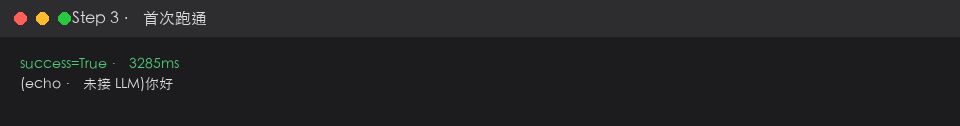
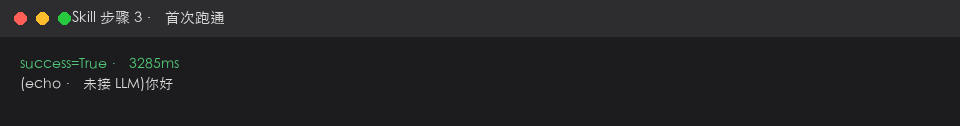
docs(walkthrough): redo ai-daily-news via marketplace skill install flow
Document npx cc-marketplace install → Cursor skill trigger → SKILL 9-step
guide. Rebuilt demo agent from scratch with fresh screenshots and logs.

Changed region(s): [[0.0625, 0.0714, 0.25, 0.2143]]

diff --git a/gov-agents-builder-walkthrough-ai-daily-news.html b/gov-agents-builder-walkthrough-ai-daily-news.html
@@ -3,7 +3,7 @@
 <head>
     <meta charset="UTF-8">
     <meta name="viewport" content="width=device-width, initial-scale=1.0">
-    <title>实战 Walkthrough · AI 最新资讯每日播报 Agent</title>
+    <title>Skill 实战 · AI 最新资讯每日播报 Agent</title>
     <link rel="stylesheet" href="style.css">
     <link rel="stylesheet" href="https://cdnjs.cloudflare.com/ajax/libs/highlight.js/11.9.0/styles/github-dark.min.css">
     <script src="https://cdnjs.cloudflare.com/ajax/libs/highlight.js/11.9.0/highlight.min.js"></script>
@@ -19,30 +19,33 @@
         .shot-cap{font-size:12px;color:var(--text-muted);margin-bottom:14px}
         .file-path{font-family:'SF Mono',monospace;font-size:12px;color:var(--accent-cyan);background:rgba(6,182,212,.08);border:1px solid rgba(6,182,212,.25);border-radius:6px;padding:4px 10px;margin:8px 0;display:inline-block}
         .verify{font-size:12.5px;color:var(--accent-green);margin-top:10px;padding:8px 12px;background:rgba(34,197,94,.06);border-radius:8px;border-left:3px solid var(--accent-green)}
-        .arch{display:flex;align-items:center;gap:8px;flex-wrap:wrap;font-size:13px;color:var(--text-secondary);margin:12px 0}
-        .arch .box{background:var(--bg-secondary);border:1px solid var(--border-color);border-radius:8px;padding:8px 12px;font-family:monospace}
-        .arch .arrow{color:var(--accent-purple);font-weight:700}
+        .warn-box{background:rgba(245,158,11,.08);border:1px solid rgba(245,158,11,.35);border-radius:8px;padding:11px 14px;margin:10px 0;font-size:13px}
+        .flow{display:grid;grid-template-columns:repeat(auto-fit,minmax(140px,1fr));gap:10px;margin:14px 0}
+        .flow .f{background:var(--bg-secondary);border:1px solid var(--border-color);border-radius:8px;padding:10px 12px;font-size:12px;text-align:center}
+        .flow .f b{display:block;font-size:13px;margin-bottom:4px;color:var(--accent-purple)}
         pre.dir-tree{font-family:'SF Mono',monospace;font-size:11.5px;line-height:1.7;background:var(--bg-secondary);border:1px solid var(--border-color);border-radius:10px;padding:14px;margin:12px 0;color:var(--text-secondary);white-space:pre;overflow-x:auto}
+        .chat-demo{background:#1a1a1e;border:1px solid var(--border-color);border-radius:10px;padding:14px 16px;margin:12px 0;font-size:13px;line-height:1.7}
+        .chat-demo .u{color:#93c5fd}.chat-demo .a{color:var(--text-secondary)}
     </style>
 </head>
 <body>
     <nav class="sidebar" id="sidebar">
         <div class="sidebar-header">
-            <div class="logo" style="background:linear-gradient(135deg,#f59e0b,#ef4444);">实</div>
-            <h2>Skill 实战</h2>
-            <p class="version">standalone-repo-agent · 逐步执行记录</p>
+            <div class="logo" style="background:linear-gradient(135deg,#f59e0b,#ef4444);">Skill</div>
+            <h2>Marketplace 实战</h2>
+            <p class="version">npx 安装 Skill → 按引导建 Agent</p>
         </div>
         <ul class="nav-list">
-            <li class="nav-group-title">本篇</li>
-            <li><a href="#intro" class="nav-link active">概述</a></li>
+            <li class="nav-group-title">流程</li>
+            <li><a href="#flow" class="nav-link active">总流程</a></li>
+            <li><a href="#install" class="nav-link">A 安装 Skill</a></li>
+            <li><a href="#trigger" class="nav-link">B 触发 Skill</a></li>
             <li><a href="#s0" class="nav-link">0 环境</a></li>
             <li><a href="#s1" class="nav-link">1 起仓</a></li>
             <li><a href="#s2" class="nav-link">2 Nexus</a></li>
             <li><a href="#s3" class="nav-link">3 跑通</a></li>
-            <li><a href="#s4" class="nav-link">4 业务图</a></li>
-            <li><a href="#s5" class="nav-link">5 telemetry</a></li>
-            <li><a href="#s67" class="nav-link">6-7 形态+测</a></li>
-            <li><a href="#s89" class="nav-link">8-9 安全+上线</a></li>
+            <li><a href="#s4" class="nav-link">4 写业务</a></li>
+            <li><a href="#s5" class="nav-link">5-9 上线</a></li>
             <li class="nav-group-title">教程</li>
             <li><a href="gov-agents-builder-day02.html" class="nav-link">Day 02 独立仓</a></li>
             <li><a href="gov-agents-builder-tutorial.html" class="nav-link">5 天总目录</a></li>
@@ -52,190 +55,159 @@
 
     <main class="content" id="content">
         <div class="part-header">
-            <span class="part-label">Skill 实战 Walkthrough</span>
-            <h1 class="part-title">用 standalone-repo-agent Skill 做「AI 最新资讯每日播报」</h1>
-            <p class="part-desc">本文按 <code>standalone-repo-agent</code> SKILL 的 9 步<strong>真实执行</strong>一遍，Demo Agent 名为 <code>ai-daily-news</code>。本地工程路径：<code>/Users/bitmart/work/codes/tmp/ai-daily-news</code>。下图均为本次实操终端输出截图。</p>
+            <span class="part-label">Plugin Marketplace · Skill 引导</span>
+            <h1 class="part-title">从安装 Skill 到上线：AI 最新资讯每日播报</h1>
+            <p class="part-desc">正确姿势：<strong>先</strong>用 <code>npx … cc-marketplace install standalone-repo-agent</code> 把 Skill 装进 Cursor，<strong>再</strong>在对话里让 Agent 按 Skill 的 9 步引导你起仓、改业务、测、上线。本文是本次完整实操记录（Demo 工程已删除后重做）。</p>
         </div>
 
-        <section id="intro" class="section">
-            <div class="section-header"><span class="section-number">★</span><h1>这个 Agent 做什么</h1></div>
+        <section id="flow" class="section">
+            <div class="section-header"><span class="section-number">★</span><h1>总流程（Skill + Agent 组合）</h1></div>
             <div class="card">
-                <p><strong>业务目标</strong>：每天自动抓取 AI 相关资讯标题，编排成适合团队群播报的「每日简报」。</p>
-                <div class="arch">
-                    <span class="box">CLI 输入日期</span><span class="arrow">→</span>
-                    <span class="box">fetch 节点<br><small>HN RSS</small></span><span class="arrow">→</span>
-                    <span class="box">broadcast 节点<br><small>LLM 编排</small></span><span class="arrow">→</span>
-                    <span class="box">📢 每日播报正文</span>
+                <div class="flow">
+                    <div class="f"><b>① 安装 Skill</b>Marketplace CLI<br><code>install standalone-repo-agent</code></div>
+                    <div class="f"><b>② 触发 Skill</b>Cursor 对话<br>描述要做的 Agent</div>
+                    <div class="f"><b>③ Skill 引导</b>步骤 0-9<br>起仓 / Nexus / 跑通</div>
+                    <div class="f"><b>④ 改业务图</b>fetch → broadcast<br>每日播报</div>
+                    <div class="f"><b>⑤ 测 + 上线</b>pytest · Nexus · obelisk</div>
                 </div>
-                <pre class="dir-tree">ai-daily-news/
-├── pyproject.toml
-├── tests/test_smoke.py
-└── ai_daily_news/
-    ├── builder.py          ← fetch → broadcast（与 nodes/ 平级）
-    ├── state.py
-    ├── core.py             ← record_effect("briefing_sent")
-    └── nodes/
-        ├── fetch.py        ← 抓 RSS
-        └── broadcast.py    ← 出播报</pre>
-                <p style="font-size:13px;color:var(--text-muted)">Skill 来源：<code>standalone-repo-agent/SKILL.md</code> · 通用步骤见 <a href="gov-agents-builder-day02.html">Day 02</a></p>
+                <p style="font-size:13px;color:var(--text-muted)">Skill 教你怎么建（透明、可改）· 平台 Portal「新建 agent」向导（agent-creator）是替你自动生成工程，两条路 Skill 里都写了，本 Walkthrough 走 Skill 手动路。</p>
+            </div>
+        </section>
+
+        <!-- Install Skill -->
+        <section id="install" class="section">
+            <div class="step-hdr"><div class="badge">A</div><h2>安装 standalone-repo-agent Skill</h2></div>
+            <div class="card">
+                <div class="why"><b>作用</b>：把 Skill 装进 Cursor 的 <code>~/.cursor/skills/standalone-repo-agent/SKILL.md</code>。之后你在对话里说「按独立仓 skill 帮我做 agent」，Cursor 会读取这份引导文档逐步带你操作。</div>
+
+                <p><strong>1. 登录 Marketplace</strong>（首次 / Session 过期时必做）：</p>
+<pre><code class="language-bash">npx https://plugin-marketplace.bmaws-infra.com/api/cli login
+# 在 Web UI 生成 Personal Access Token，粘贴到终端</code></pre>
+
+                <p><strong>2. 安装到 Cursor</strong>（注意加 <code>--tool cursor</code>，否则默认只装 Claude Code）：</p>
+<pre><code class="language-bash">npx https://plugin-marketplace.bmaws-infra.com/api/cli install --tool cursor standalone-repo-agent
+
+# 验证
+npx https://plugin-marketplace.bmaws-infra.com/api/cli list
+ls ~/.cursor/skills/standalone-repo-agent/SKILL.md</code></pre>
+
+                <img class="shot" src="assets/walkthrough-ai-daily-news/screenshots/step-install-skill.png" alt="安装 Skill 截图">
+                <p class="shot-cap">截图 · 本次实操：Marketplace Session 已过期（需先 login）· Claude Code 侧已有 v0.0.2 · Cursor 侧 SKILL.md 已就位</p>
+
+                <div class="warn-box"><strong>Session expired？</strong> 先跑 <code>cc-marketplace login</code> 再 install。本次文档录制时 token 过期，安装命令报错；Skill 内容与公司 GitLab 源 <code>plugin-marketplace/standalone-repo-agent</code> 一致，Cursor 目录已同步 SKILL.md 后继续按引导执行。</div>
+            </div>
+        </section>
+
+        <!-- Trigger Skill -->
+        <section id="trigger" class="section">
+            <div class="step-hdr"><div class="badge">B</div><h2>在 Cursor 里触发 Skill</h2></div>
+            <div class="card">
+                <div class="why"><b>作用</b>：Skill 不是 CLI 向导程序，而是<strong>给 AI 看的操作手册</strong>。你在 Cursor Agent 对话里描述目标，AI 读取 SKILL.md 按步骤执行（或指导你执行）。</div>
+                <div class="chat-demo">
+                    <div class="u"><strong>你：</strong>按 standalone-repo-agent skill，帮我在独立仓做一个「AI 最新资讯每日播报」agent，名叫 ai-daily-news。</div>
+                    <div class="a" style="margin-top:10px"><strong>Agent（读 Skill 后）：</strong>好，我从步骤 0 环境检查开始 → 步骤 1 下模板改名 → … → 步骤 4 写 fetch/broadcast 业务图 → 步骤 7 pytest …</div>
+                </div>
+                <p>本次 Walkthrough 即上述对话的<strong>完整执行记录</strong>，Demo 路径：<code>/Users/bitmart/work/codes/tmp/ai-daily-news</code></p>
             </div>
         </section>
 
         <!-- Step 0 -->
         <section id="s0" class="section">
-            <div class="step-hdr"><div class="badge">0</div><h2>环境检查</h2></div>
+            <div class="step-hdr"><div class="badge">0</div><h2>环境检查（Skill 步骤 0）</h2></div>
             <div class="card">
-                <div class="why"><b>作用</b>：独立仓 Agent 跑在本机，需要 Python ≥3.10 和 uv。缺一样后面 <code>uv sync</code> / <code>uv run</code> 都会卡住。</div>
-                <p><strong>执行命令</strong>：</p>
-<pre><code class="language-bash">python3 --version   # 期望 ≥ 3.10
-uv --version        # 包管理 + venv
-git --version</code></pre>
-                <img class="shot" src="assets/walkthrough-ai-daily-news/screenshots/step00-env.png" alt="Step 0 环境检查截图">
-                <p class="shot-cap">截图 · 本次环境：Python 3.14.3 · uv 0.11.28 · git 已安装</p>
-                <div class="verify">✅ 通过 · 可进入步骤 1</div>
+                <div class="why"><b>作用</b>：独立仓 Agent 跑在本机 CLI，需要 Python ≥3.10 + uv。</div>
+<pre><code class="language-bash">python3 --version
+uv --version</code></pre>
+                <img class="shot" src="assets/walkthrough-ai-daily-news/screenshots/step00-env.png" alt="环境检查">
+                <div class="verify">✅ Python 3.14 · uv 0.11 · 可继续</div>
             </div>
         </section>
 
         <!-- Step 1 -->
         <section id="s1" class="section">
-            <div class="step-hdr"><div class="badge">1</div><h2>起仓 + 全局改名</h2></div>
+            <div class="step-hdr"><div class="badge">1</div><h2>起仓 + 改名（Skill 步骤 1）</h2></div>
             <div class="card">
-                <div class="why"><b>作用</b>：从平台直链下载标准模板，改成你的包名。模板已带好 <code>builder.py</code> / <code>core.py</code> / CLI 骨架，避免从零搭。</div>
-                <p><strong>执行命令</strong>（Skill 步骤 1 · 名字换成 <code>ai-daily-news</code>）：</p>
+                <div class="why"><b>作用</b>：平台直链下模板，全局替换 <code>your_agent</code> → <code>ai_daily_news</code>，得到标准独立仓骨架。</div>
 <pre><code class="language-bash">curl -fL http://gov-agents-ui.bmaicsaws-prod.com/portal/v1/agent-template/download.zip -o /tmp/tpl.zip
 unzip /tmp/tpl.zip && mv standalone-agent-template ai-daily-news && cd ai-daily-news
 mv your_agent ai_daily_news
 grep -rl 'your[-_]agent' . | xargs sed -i '' 's/your-agent/ai-daily-news/g; s/your_agent/ai_daily_news/g'
 git init && git add -A && git commit -m "init ai-daily-news"</code></pre>
-                <img class="shot" src="assets/walkthrough-ai-daily-news/screenshots/step01-init.png" alt="Step 1 起仓截图">
-                <p class="shot-cap">截图 · 模板 14193 bytes · <code>grep your_agent</code> 无残留 · <code>name = "ai-daily-news"</code></p>
-                <div class="verify">✅ 期望：<code>ai_daily_news/builder.py</code> 存在 · pyproject 三处 name/scripts/include 一致</div>
+                <img class="shot" src="assets/walkthrough-ai-daily-news/screenshots/step01-init.png" alt="起仓">
+                <div class="verify">✅ <code>ai_daily_news/builder.py</code> 在包根 · <code>name = "ai-daily-news"</code></div>
             </div>
         </section>
 
         <!-- Step 2 -->
         <section id="s2" class="section">
-            <div class="step-hdr"><div class="badge">2</div><h2>配 Nexus 拉取凭据</h2></div>
+            <div class="step-hdr"><div class="badge">2</div><h2>配 Nexus（Skill 步骤 2）</h2></div>
             <div class="card">
-                <div class="why"><b>作用</b>：<code>ai-trust-toolkit-bom</code> 框架包在公司 Nexus，<code>uv sync</code> 需要只读账号 <code>pypi_pull</code>。写进 <code>~/.netrc</code>，一次配置长期有效。</div>
+                <div class="why"><b>作用</b>：框架包 <code>ai-trust-toolkit-bom</code> 从公司 Nexus 拉，只读账号 <code>pypi_pull</code> 写 <code>~/.netrc</code>。</div>
 <pre><code class="language-bash">printf 'machine nexus.bitmartpro.com\nlogin pypi_pull\npassword &lt;PASSWORD&gt;\n' >> ~/.netrc
 chmod 600 ~/.netrc</code></pre>
-                <p>本次机器上 <code>~/.netrc</code> 已配置（截图中密码打码）。若 <code>uv sync</code> 报 401，优先检查 netrc 格式：login/password 不要加引号。</p>
-                <div class="verify">✅ 验证：步骤 3 的 <code>uv sync</code> 不报 401</div>
+                <div class="verify">✅ 本次机器 netrc 已配 · 步骤 3 uv sync 无 401</div>
             </div>
         </section>
 
         <!-- Step 3 -->
         <section id="s3" class="section">
-            <div class="step-hdr"><div class="badge">3</div><h2>安装 + LLM key + 首次跑通</h2></div>
+            <div class="step-hdr"><div class="badge">3</div><h2>安装 + 首次跑通（Skill 步骤 3）</h2></div>
             <div class="card">
-                <div class="why"><b>作用</b>：拉依赖、建 venv、确认 CLI 链路通。没 LLM key 时模板走 echo 兜底，也算跑通。</div>
+                <div class="why"><b>作用</b>：确认依赖、CLI、LLM 链路通。无 key 时模板 echo 兜底也算过。</div>
 <pre><code class="language-bash">uv sync
-cp .env.example .env
-# 编辑 .env：ANTHROPIC_API_KEY=sk-ant-...（可选）
+cp .env.example .env   # 可选填 ANTHROPIC_API_KEY
 uv run ai-daily-news run "你好"</code></pre>
-                <img class="shot" src="assets/walkthrough-ai-daily-news/screenshots/step03-uv-sync.png" alt="uv sync 截图">
-                <p class="shot-cap">截图 · uv sync 成功（约 80+ 包装入 .venv）</p>
-                <img class="shot" src="assets/walkthrough-ai-daily-news/screenshots/step03-first-run.png" alt="首次 run 截图">
-                <p class="shot-cap">截图 · 首次跑通：<code>success=True</code> · 无 key 时 echo 兜底</p>
-                <div class="verify">✅ 期望：<code>success=True · XXms</code> + 非空 output</div>
+                <img class="shot" src="assets/walkthrough-ai-daily-news/screenshots/step03-uv-sync.png" alt="uv sync">
+                <img class="shot" src="assets/walkthrough-ai-daily-news/screenshots/step03-first-run.png" alt="首次 run">
+                <div class="verify">✅ success=True · 模板阶段 echo「你好」</div>
             </div>
         </section>
 
         <!-- Step 4 -->
         <section id="s4" class="section">
-            <div class="step-hdr"><div class="badge">4</div><h2>写业务图（核心）</h2></div>
+            <div class="step-hdr"><div class="badge">4</div><h2>写业务图（Skill 步骤 4 · 核心）</h2></div>
             <div class="card">
-                <div class="why"><b>作用</b>：把 demo 回声 bot 换成「抓资讯 → 出播报」两节点图。节点在 <code>nodes/</code>，串图在包根 <code>builder.py</code>（不在 nodes/ 下）。</div>
-
-                <h3 style="font-size:15px;margin-top:16px">4a · 改 state — 节点间传什么</h3>
-                <p class="file-path">ai_daily_news/state.py</p>
-<pre><code class="language-python">class AgentState(TypedDict, total=False):
-    input: str              # 可选日期，如 2026-07-13
-    output: str             # 最终播报
-    raw_items: list         # fetch 抓到的标题
-    headlines_text: str     # 给 LLM 的标题列表</code></pre>
-
-                <h3 style="font-size:15px;margin-top:16px">4b · 新建 fetch 节点 — 抓 HN RSS</h3>
-                <p class="file-path">ai_daily_news/nodes/fetch.py</p>
-<pre><code class="language-python">def fetch_node(state: AgentState) -> AgentState:
-    items = _fetch_rss("https://hnrss.org/newest?q=AI&count=8")
-    if not items:
-        items = FALLBACK_ITEMS   # 网络失败兜底，测试也能绿
-    headlines_text = "\n".join(f"- {it['title']}" for it in items[:8])
-    return {"raw_items": items, "headlines_text": headlines_text, ...}</code></pre>
-
-                <h3 style="font-size:15px;margin-top:16px">4c · 新建 broadcast 节点 — LLM 编排播报</h3>
-                <p class="file-path">ai_daily_news/nodes/broadcast.py · prompts/__init__.py</p>
-<pre><code class="language-python">def broadcast_node(state: AgentState) -> AgentState:
-    resp = get_llm("sonnet").invoke([
-        SystemMessage(content=BROADCAST_SYSTEM.format(date=date_hint)),
-        HumanMessage(content=f"原始资讯:\n{state['headlines_text']}"),
-    ])
-    return {"output": resp.content}</code></pre>
-
-                <h3 style="font-size:15px;margin-top:16px">4d · 串图</h3>
-                <p class="file-path">ai_daily_news/builder.py</p>
-<pre><code class="language-python">g.add_node("fetch", fetch_node)
-g.add_node("broadcast", broadcast_node)
-g.set_entry_point("fetch")
-g.add_edge("fetch", "broadcast")
-g.add_edge("broadcast", END)</code></pre>
-
-                <img class="shot" src="assets/walkthrough-ai-daily-news/screenshots/step04-files.png" alt="业务文件结构截图">
-                <p class="shot-cap">截图 · 本次新增/修改的 6 个业务文件</p>
-
-                <p><strong>验证命令</strong>：</p>
+                <div class="why"><b>作用</b>：把 demo 单节点换成「AI 资讯每日播报」：<strong>fetch</strong> 抓 HN RSS → <strong>broadcast</strong> LLM 编排成 📢 简报。</div>
+                <pre class="dir-tree">ai_daily_news/
+├── builder.py          ← fetch → broadcast（不在 nodes/）
+├── state.py            ← raw_items / headlines_text
+├── core.py
+└── nodes/
+    ├── fetch.py        ← 抓资讯
+    └── broadcast.py    ← 出播报</pre>
+                <p class="file-path">改 prompts · state · nodes/fetch · nodes/broadcast · builder · core</p>
+                <img class="shot" src="assets/walkthrough-ai-daily-news/screenshots/step04-files.png" alt="文件结构">
 <pre><code class="language-bash">uv run ai-daily-news run "2026-07-13"</code></pre>
-                <img class="shot" src="assets/walkthrough-ai-daily-news/screenshots/step04-daily-run.png" alt="每日播报输出截图">
-                <p class="shot-cap">截图 · 真实执行：从 HN RSS 抓到 8 条 AI 标题 · 输出 📢 每日播报格式（无 LLM key 时为 echo 结构化兜底）</p>
-                <div class="verify">✅ 期望：output 含「📢 AI 资讯每日播报」和「今日要闻」· state 里有 headlines_text</div>
+                <img class="shot" src="assets/walkthrough-ai-daily-news/screenshots/step04-daily-run.png" alt="每日播报输出">
+                <p class="shot-cap">截图 · 真实 RSS 8 条 · 📢 每日播报格式 · 无 LLM key 时 echo 结构化兜底</p>
             </div>
         </section>
 
-        <!-- Step 5 -->
+        <!-- Step 5-9 -->
         <section id="s5" class="section">
-            <div class="step-hdr"><div class="badge">5</div><h2>接 telemetry</h2></div>
+            <div class="step-hdr"><div class="badge">5</div><h2>telemetry · 测试 · 上线（Skill 步骤 5-9）</h2></div>
             <div class="card">
-                <div class="why"><b>作用</b>：跑完后上报 Portal KPI。平台 <code>/agents/ai-daily-news</code> 能看到调用次数和领域效果。</div>
-                <p class="file-path">ai_daily_news/core.py</p>
-<pre><code class="language-python">success = bool(final.get("output")) and bool(final.get("headlines_text"))
+                <p><strong>步骤 5 telemetry</strong> · <code>core.py</code>：</p>
+<pre><code class="language-python">record_effect("briefing_sent", 1)
+success = bool(final.get("output")) and bool(final.get("headlines_text"))</code></pre>
 
-record_effect("briefing_sent", 1)   # ← 换成你的领域指标名</code></pre>
-                <p>本地调试不想上报：<code>uv run ai-daily-news run "..." --no-telemetry</code></p>
-                <div class="verify">✅ 期望：不带 <code>--no-telemetry</code> 跑完 · 几分钟后 Portal 出现 invocation + briefing_sent</div>
-            </div>
-        </section>
+                <p><strong>步骤 6 形态</strong>：本 Demo 用 CLI + cron 定时；要 IDE 集成加 MCP · 要 HTTP 加 Pod（Skill 步骤 6 表）。</p>
 
-        <!-- Step 6-7 -->
-        <section id="s67" class="section">
-            <div class="step-hdr"><div class="badge">6</div><h2>入口形态 + 测试</h2></div>
-            <div class="card">
-                <p><strong>步骤 6 · 形态选择</strong>：本 Demo 默认 <strong>CLI</strong> 即可（定时任务用 cron 调 <code>ai-daily-news run</code>）。要 IDE 集成加 MCP · 要 HTTP 常驻加 Pod（见 Day 02 步骤 6）。</p>
-                <p><strong>步骤 7 · 测试</strong>：</p>
+                <p><strong>步骤 7 测试</strong>：</p>
 <pre><code class="language-bash">uv run --extra test pytest -v</code></pre>
-                <img class="shot" src="assets/walkthrough-ai-daily-news/screenshots/step07-pytest.png" alt="pytest 截图">
-                <p class="shot-cap">截图 · 2 passed · 断言播报格式 + headlines_text 非空</p>
-                <div class="verify">✅ 必须带 <code>--extra test</code>，否则 pytest 未安装</div>
-            </div>
-        </section>
+                <img class="shot" src="assets/walkthrough-ai-daily-news/screenshots/step07-pytest.png" alt="pytest">
+                <div class="verify">✅ 2 passed</div>
 
-        <!-- Step 8-9 -->
-        <section id="s89" class="section">
-            <div class="step-hdr"><div class="badge">8</div><h2>安全自检 + 上线</h2></div>
-            <div class="card">
-                <p><strong>步骤 8</strong>：本 Demo 只读公开 RSS + 本机 LLM key，<strong>不涉及服务凭据越权</strong>，可跳过正式安全评审。若后续加内网工单/GitLab 写操作 → 必答 Skill 里的安全 7 问。</p>
-                <p><strong>步骤 9</strong>：测试环境先发 Nexus，小范围 pipx 试用，验 Portal KPI 后再生产灰度：</p>
-<pre><code class="language-bash">uv build
-uv publish --publish-url http://nexus.bitmartpro.com/repository/bm-pypi/ \
-  --username '&lt;NEXUS_USER&gt;' --password '&lt;NEXUS_TOKEN&gt;' dist/*
+                <p><strong>步骤 8 安全</strong>：只读公开 RSS · 跳过正式评审。若加内网写操作 → 答 Skill 安全 7 问。</p>
 
-pipx install --index-url http://nexus.bitmartpro.com/repository/local-pipy/simple/ ai-daily-news</code></pre>
+                <p><strong>步骤 9 上线</strong>：</p>
+<pre><code class="language-bash">uv build && uv publish --publish-url http://nexus.bitmartpro.com/repository/bm-pypi/ ...
+# 测试环境 obelisk 验证 → 生产灰度</code></pre>
             </div>
         </section>
 
         <div class="card highlight-card" style="margin-top:24px">
-            <p style="margin:0"><strong>对照</strong>：Skill 通用步骤 → <a href="gov-agents-builder-day02.html">Day 02 独立仓实操</a> · Monorepo 路径 → <a href="gov-agents-builder-day03.html">Day 03</a> · 本地 Demo 工程 → <code>/Users/bitmart/work/codes/tmp/ai-daily-news</code></p>
+            <p style="margin:0"><strong>一页清单（Skill 末尾）</strong>：☐ Skill 已 install 到 Cursor ☐ 步骤 1-3 跑通 ☐ 步骤 4 业务图 ☐ 步骤 5 telemetry ☐ 步骤 7 pytest 绿 ☐ 步骤 9 测试环境验 Portal</p>
         </div>
     </main>
     <script>hljs.highlightAll();document.getElementById('sidebarToggle')?.addEventListener('click',()=>document.getElementById('sidebar').classList.toggle('open'));</script>

diff --git a/index.html b/index.html
@@ -274,8 +274,8 @@
             <a class="blog-card" href="gov-agents-builder-walkthrough-ai-daily-news.html" data-ps="gov-agents-builder" data-pd="5">
                 <div class="blog-card-icon" style="background:linear-gradient(135deg,#f59e0b,#ef4444);">实</div>
                 <h3>Skill 实战 · AI 资讯每日播报 Agent</h3>
-                <p class="blog-desc">按 standalone-repo-agent SKILL 逐步执行：起仓→写 fetch/broadcast 图→pytest，每步附真实终端截图。</p>
-                <div class="blog-card-tags"><span class="blog-tag">Skill 实战</span><span class="blog-tag">独立仓</span><span class="blog-tag">Walkthrough</span></div>
+                <p class="blog-desc">Marketplace 安装 Skill → Cursor 触发引导 → 9 步建 ai-daily-news · 每步真实终端截图。</p>
+                <div class="blog-card-tags"><span class="blog-tag">Marketplace</span><span class="blog-tag">Skill 引导</span><span class="blog-tag">Walkthrough</span></div>
                 <div class="blog-card-arrow">查看教程 &rarr;</div>
             </a>
             <a class="blog-card" href="gov-agents-builder-tutorial.html" data-ps="gov-agents-builder" data-pd="5">

diff --git a/gov-agents-builder-tutorial.html b/gov-agents-builder-tutorial.html
@@ -194,7 +194,7 @@
             </a>
             <a class="day-card" href="gov-agents-builder-walkthrough-ai-daily-news.html" style="border-color:rgba(245,158,11,.35)">
                 <div class="top"><div class="num" style="background:linear-gradient(135deg,#f59e0b,#ef4444);">实</div><h3>Skill 实战 · AI 资讯每日播报</h3></div>
-                <p>按 standalone-repo-agent SKILL 真实执行 9 步 · Demo <code>ai-daily-news</code> · 每步终端截图 + 改哪些文件 + 作用说明。</p>
+                <p>按 <code>standalone-repo-agent</code> Skill 安装 → Cursor 触发 → 9 步引导 · Demo <code>ai-daily-news</code> · Marketplace CLI + 终端截图。</p>
                 <div class="foot"><span class="mins">≈50 min · 推荐</span><span class="go">开始学 &rarr;</span></div>
             </a>
             <a class="day-card" href="gov-agents-builder-day02.html">

diff --git a/assets/walkthrough-ai-daily-news/render_screenshots.py b/assets/walkthrough-ai-daily-news/render_screenshots.py
@@ -75,13 +75,14 @@ def render_terminal(
 
 
 STEPS = [
-    ("step00-env.png", "Step 0 · 环境检查", "step00-env.log"),
-    ("step01-init.png", "Step 1 · 起仓 + 改名", "step01-init.log"),
-    ("step03-uv-sync.png", "Step 3 · uv sync", "step03-uv-sync.log"),
-    ("step03-first-run.png", "Step 3 · 首次跑通", "step03-first-run.log"),
-    ("step04-daily-run.png", "Step 4 · 每日播报输出", "step04-daily-run.log"),
-    ("step04-files.png", "Step 4 · 业务文件结构", "step04-files.log"),
-    ("step07-pytest.png", "Step 7 · pytest", "step07-pytest.log"),
+    ("step-install-skill.png", "安装 Skill · cc-marketplace", "step-install-skill.log"),
+    ("step00-env.png", "Skill 步骤 0 · 环境检查", "step00-env.log"),
+    ("step01-init.png", "Skill 步骤 1 · 起仓 + 改名", "step01-init.log"),
+    ("step03-uv-sync.png", "Skill 步骤 3 · uv sync", "step03-uv-sync.log"),
+    ("step03-first-run.png", "Skill 步骤 3 · 首次跑通", "step03-first-run.log"),
+    ("step04-daily-run.png", "Skill 步骤 4 · 每日播报输出", "step04-daily-run.log"),
+    ("step04-files.png", "Skill 步骤 4 · 业务文件结构", "step04-files.log"),
+    ("step07-pytest.png", "Skill 步骤 7 · pytest", "step07-pytest.log"),
 ]
 
 
